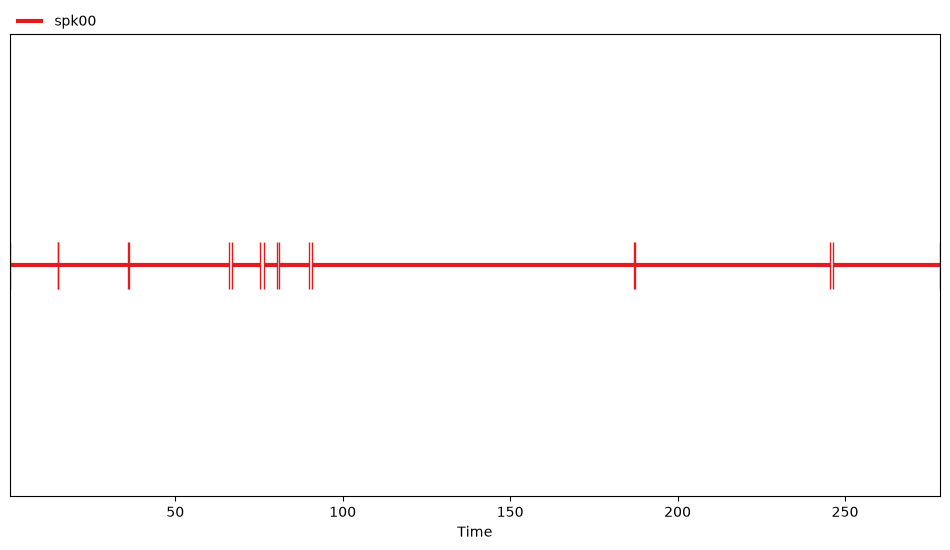
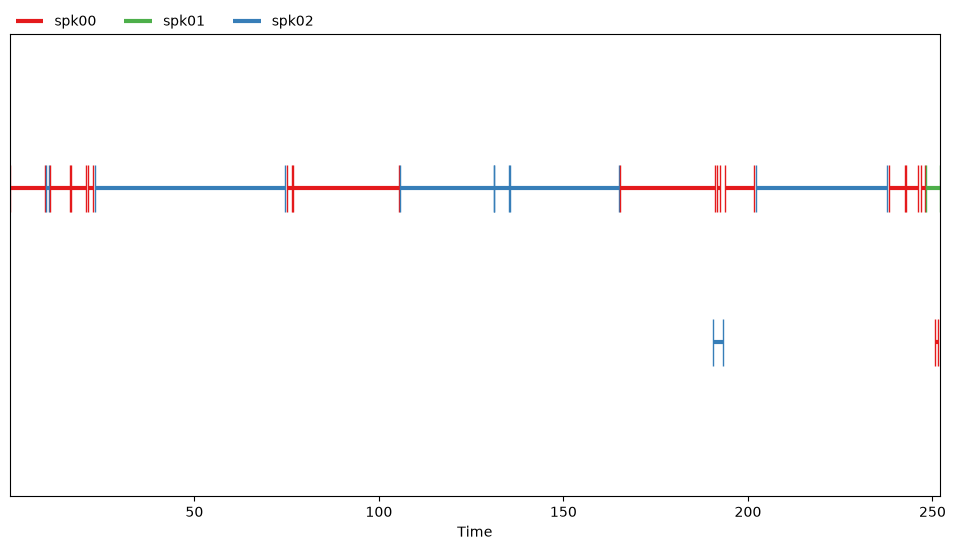
save

diff --git a/rttm_files.py b/rttm_files.py
@@ -18,6 +18,7 @@ def save_frise_rttm(annotation_):
     plt.close(fig)#libère memory
 
 #tests
-test=load_file_annotations("zmndm.rttm")
+test=load_file_annotations("zyffh.rttm")
 print(test)
+notebook.crop = Segment(t1, t2)
 save_frise_rttm(test)

diff --git a/docs/notes-importantes-et-difficultes.md b/docs/notes-importantes-et-difficultes.md
@@ -24,3 +24,7 @@ Compléter l’évaluation par des enregistrements maison jamais publiés.
 
 - Cause trouvée : l'archive de test contient un dossier `__MACOSX/` (métadonnées ajoutées quand un zip est créé sur Mac). Il contient 232 fichiers `._nom.wav` qui ne sont pas des enregistrements, mais que `find -name "*.wav"` compte. 232 vrais fichiers (dans `voxconverse_test_wav/`) + 232 faux = 464.
 - Hypothèse écartée : un double dézippage
+
+### Réparition dev/test sur voxconverse
+
+Les deux ensembles ne se ressemblent pas tout à fait (chiffres des auteurs). Le test a plus de locuteurs par fichier (6,5 contre 4,5 en moyenne) et des fichiers deux fois plus longs (11,3 min contre 5,6 min)
